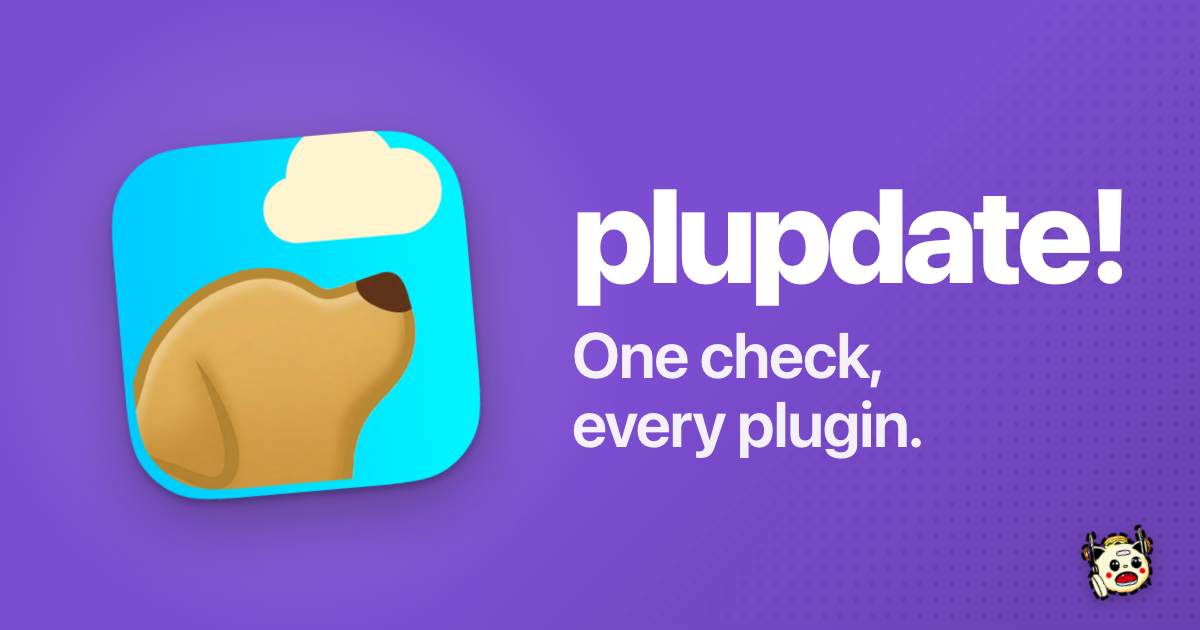
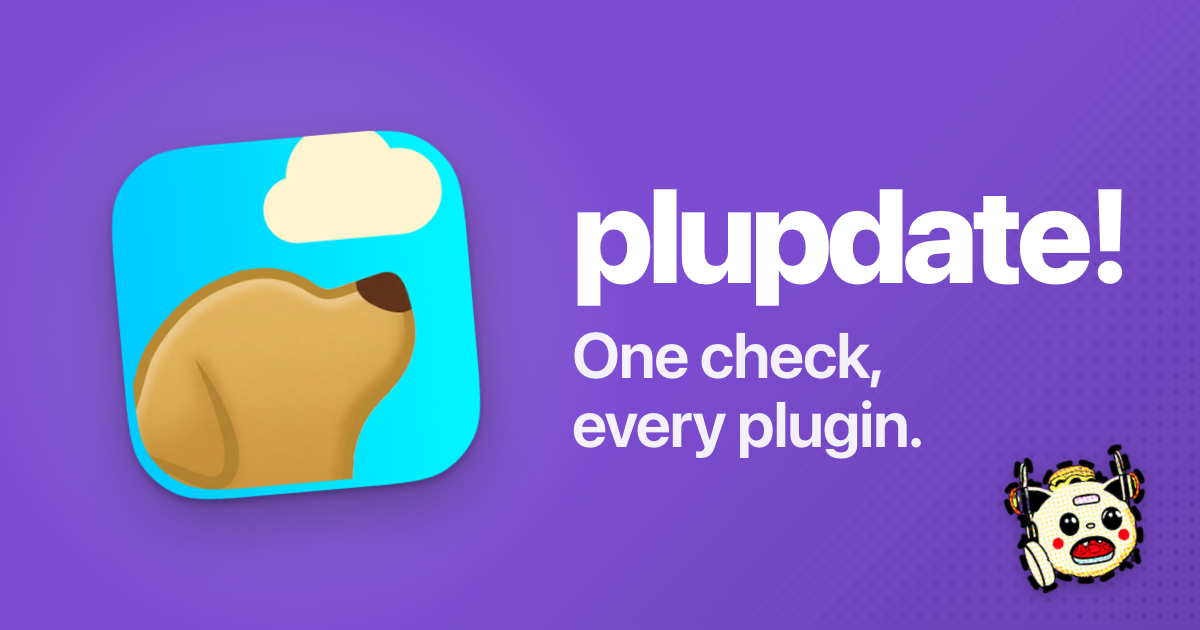
share cards: blc mascot 2x

Changed region(s): [[0.8325, 0.6937, 0.9867, 0.9651]]

diff --git a/scripts/share/card.html b/scripts/share/card.html
@@ -86,9 +86,9 @@
       .mark {
         position: absolute;
         z-index: 1;
-        right: 34px;
-        bottom: 26px;
-        width: 92px;
+        right: 30px;
+        bottom: 30px;
+        width: 180px;
         height: auto;
         transform: rotate(8deg);
         filter: drop-shadow(0 4px 8px rgba(0, 0, 0, 0.25));
